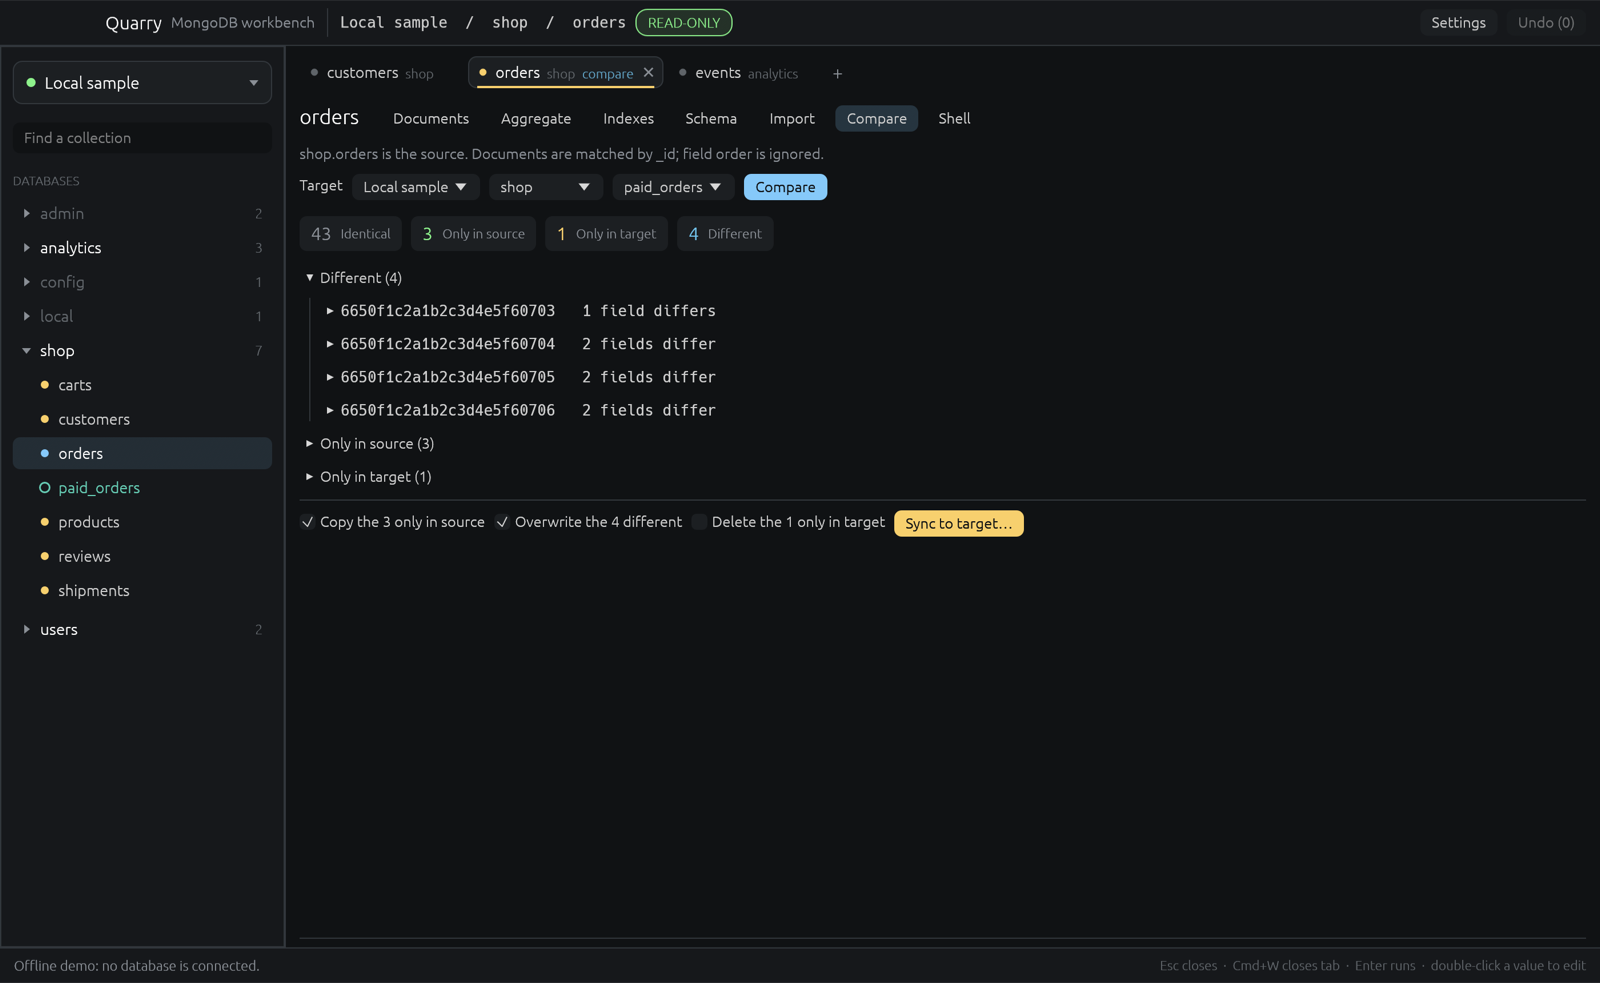
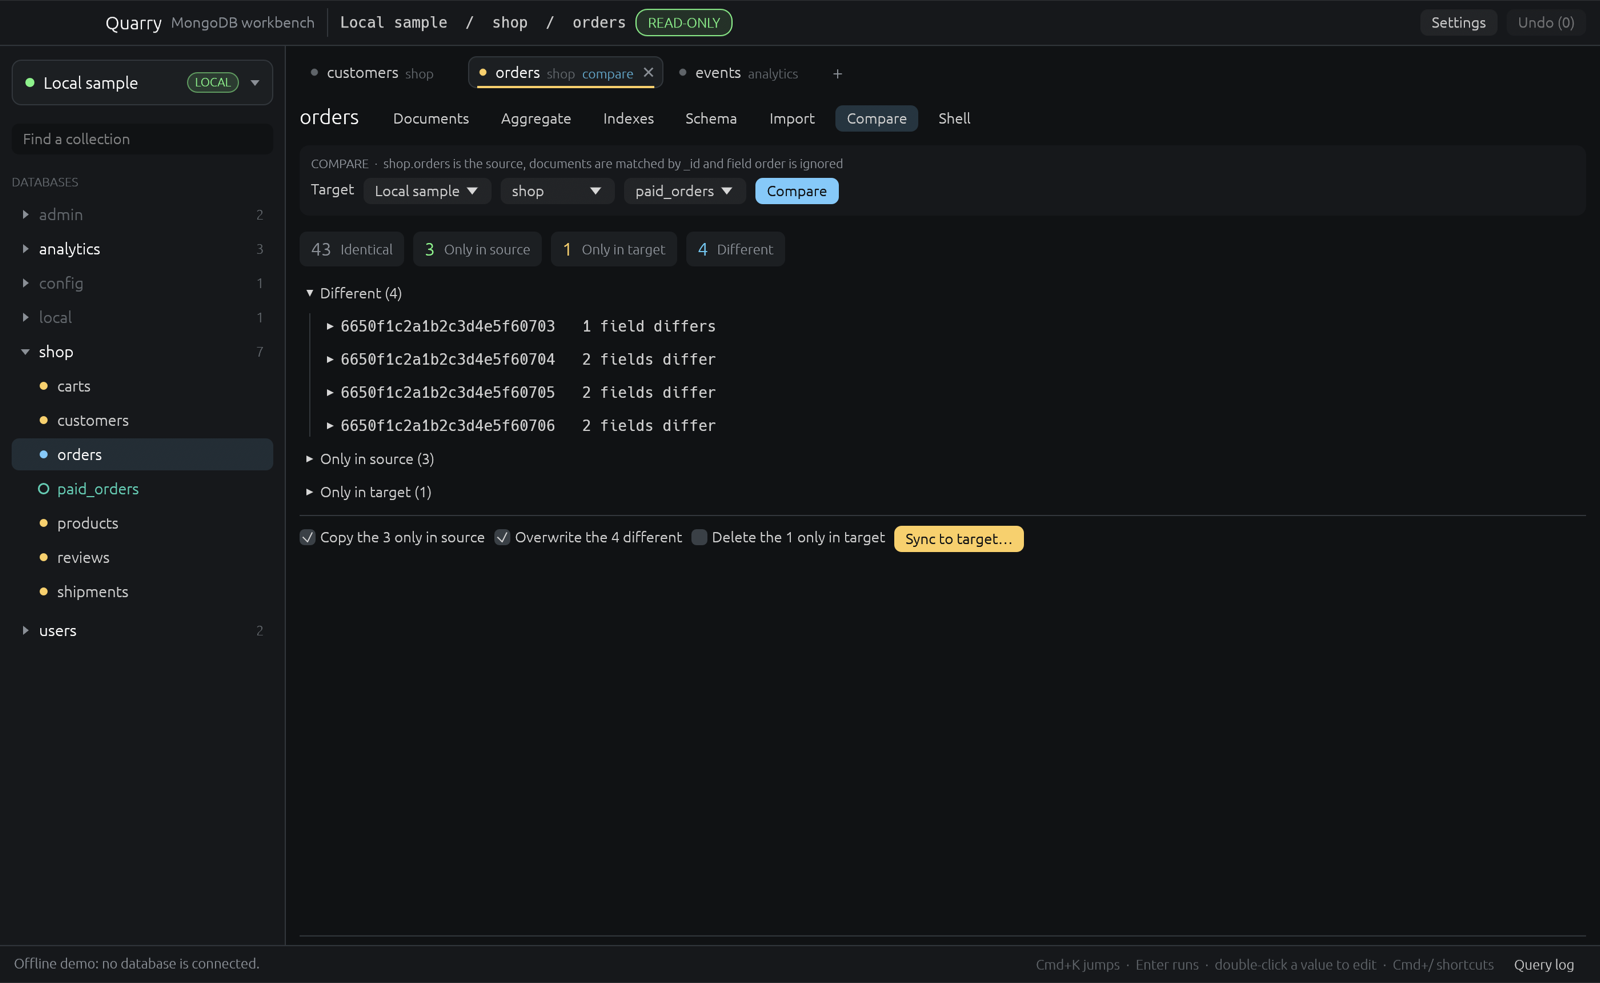
feat: tag connections and polish the connection picker and dialog (#86)
Connections can carry a tag such as Production, Staging or a custom
label, shown as a colored badge next to the connection in use and in
the picker. The picker lists each connection with its status, tag and
masked address, and the edit dialog gets wider fields and a URI that
wraps when shown. README screenshots are regenerated, with a new
aggregation pipeline view.

diff --git a/src/app.rs b/src/app.rs
@@ -136,6 +136,7 @@ fn tint(c: Color32, alpha: u8) -> Color32 {
     Color32::from_rgba_unmultiplied(c.r(), c.g(), c.b(), alpha)
 }
 const SIDEBAR_W: f32 = 250.0;
+const SIDE_ROW_H: f32 = 28.0;
 const HEADER_H: f32 = 40.0;
 const SYSTEM_DBS: [&str; 3] = ["admin", "config", "local"];
 /// Columns shown before the user picks their own; drawing every field of a wide collection is slow.
@@ -1110,6 +1111,9 @@ struct ConnMeta {
     /// Reach the server through a SOCKS5 proxy; its password lives in the Keychain.
     #[serde(default)]
     proxy: Option<db::Proxy>,
+    /// Environment label shown next to the name, such as Production.
+    #[serde(default)]
+    tag: String,
 }
 
 #[derive(PartialEq)]
@@ -1788,6 +1792,7 @@ fn stage_pipeline(stages: &[Stage], i: usize) -> db::Res<Vec<Document>> {
 struct ConnForm {
     id: Option<u64>,
     name: String,
+    tag: String,
     uri: String,
     show: bool,
     ssh_on: bool,
@@ -3759,7 +3764,7 @@ impl App {
             ("users".to_string(), colls(&["accounts", "profiles"])),
         ];
         self.conns.push(Conn {
-            meta: ConnMeta { id: 1, name: "Local sample".into(), ..Default::default() },
+            meta: ConnMeta { id: 1, name: "Local sample".into(), tag: "Local".into(), ..Default::default() },
             client: None,
             status: Status::Ready,
             writable: false,
@@ -3768,7 +3773,7 @@ impl App {
             tunnel: None,
         });
         self.conns.push(Conn {
-            meta: ConnMeta { id: 2, name: "Staging".into(), ..Default::default() },
+            meta: ConnMeta { id: 2, name: "Staging".into(), tag: "Staging".into(), ..Default::default() },
             client: None,
             status: Status::Idle,
             writable: false,
@@ -3802,6 +3807,7 @@ impl App {
             self.modal = Some(Modal::Conn(Box::new(ConnForm {
                 id: Some(2),
                 name: "Staging".into(),
+                tag: "Staging".into(),
                 uri: "mongodb://app:secret@10.0.3.12:27017/?replicaSet=rs0".into(),
                 ssh_on: true,
                 ssh: crate::ssh::SshConf { host: "bastion.example.com".into(), port: 22, user: "deploy".into(), auth: crate::ssh::SshAuth::KeyFile, key_path: "~/.ssh/id_ed25519".into(), legacy_rsa: false, known_host: Some("SHA256:3n9Yk0mF1q2hV7Qp6zXcR4tL8wE5sA0dJ2uB1nM7kPo".into()) },
@@ -4102,9 +4108,78 @@ fn stage_samples(ui: &mut egui::Ui, s: &mut Stage, i: usize, acts: &mut Vec<Stag
     });
 }
 
-fn pill(ui: &mut egui::Ui, text: &str, fg: Color32) -> egui::Response {
-    let bg = state_fill(ui, tint(fg, 30));
-    ui.add(egui::Button::new(RichText::new(text).color(fg).strong().size(12.0)).fill(bg).stroke(Stroke::new(1.0, fg)).corner_radius(10))
+/// A rounded label in `fg`, or muted with a plain border when off, as in one-of choices like connection tags.
+fn chip(ui: &mut egui::Ui, text: &str, fg: Color32, on: bool) -> egui::Response {
+    let (text_c, line, bg) = if on { (fg, fg, tint(fg, 30)) } else { (MUTED(), BORDER(), Color32::TRANSPARENT) };
+    let bg = state_fill(ui, bg);
+    ui.add(egui::Button::new(RichText::new(text).color(text_c).strong().size(12.0)).fill(bg).stroke(Stroke::new(1.0, line)).corner_radius(10))
+}
+
+/// Offered in the connection form; any other text is a custom tag.
+const TAG_PRESETS: [&str; 5] = ["Production", "Staging", "Development", "Internal", "Local"];
+
+/// Production is red so it is never mistaken for a scratch server. Only the first word counts,
+/// so custom tags like "Prod EU" keep their environment's color.
+fn tag_color(tag: &str) -> Color32 {
+    let t = tag.trim().to_ascii_lowercase();
+    match t.split(|c: char| !c.is_ascii_alphanumeric()).next().unwrap_or("") {
+        "production" | "prod" | "live" => ALERT(),
+        "staging" | "preprod" | "uat" => WARNING(),
+        "development" | "dev" | "local" | "test" => SUCCESS(),
+        "internal" => PRIMARY(),
+        _ => C_KEYWORD(),
+    }
+}
+
+fn status_color(s: &Status) -> Color32 {
+    match s {
+        Status::Ready => SUCCESS(),
+        Status::Connecting => WARNING(),
+        Status::Failed(_) => ALERT(),
+        Status::Idle => FAINT(),
+    }
+}
+
+/// One line of text cut with an ellipsis at `w`.
+fn truncated(p: &egui::Painter, text: &str, font: FontId, color: Color32, w: f32) -> std::sync::Arc<egui::Galley> {
+    let mut job = LayoutJob::simple_singleline(text.to_string(), font, color);
+    job.wrap = egui::text::TextWrapping::truncate_at_width(w.max(0.0));
+    p.layout_job(job)
+}
+
+/// Paints a tag badge at most `max_w` wide whose right edge is at `right`, and returns its left edge.
+fn paint_tag(p: &egui::Painter, right: f32, cy: f32, tag: &str, max_w: f32) -> f32 {
+    let c = tag_color(tag);
+    let g = truncated(p, &tag.to_uppercase(), FontId::proportional(10.5), c, (max_w - 14.0).min(140.0));
+    let r = egui::Rect::from_min_max(egui::pos2(right - g.size().x - 14.0, cy - 9.0), egui::pos2(right, cy + 9.0));
+    p.rect(r, 9, tint(c, 34), Stroke::new(1.0, tint(c, 150)), egui::StrokeKind::Inside);
+    p.galley(egui::pos2(r.left() + 7.0, cy - g.size().y / 2.0), g, c);
+    r.left()
+}
+
+/// `name` cut to fit before its tag badge, both centered on `cy` within `x`.
+fn paint_name_tag(p: &egui::Painter, x: egui::Rangef, cy: f32, name: &str, font: FontId, color: Color32, tag: &str) {
+    let name_right = if tag.is_empty() { x.max } else { paint_tag(p, x.max, cy, tag, x.span() * 0.4) - 8.0 };
+    let g = truncated(p, name, font, color, name_right - x.min);
+    p.galley(egui::pos2(x.min, cy - g.size().y / 2.0), g, color);
+}
+
+/// Typing "none" means no tag, the same as the None chip.
+fn clean_tag(tag: &str) -> &str {
+    let t = tag.trim();
+    if t.eq_ignore_ascii_case("none") { "" } else { t }
+}
+
+/// A saved connection in the picker: status, name and tag, then the masked address.
+fn conn_row(ui: &mut egui::Ui, c: &Conn, active: bool) -> egui::Response {
+    side_row(ui, 48.0, 4.0, active, |p, r| {
+        let (left, right, top) = (r.left(), r.right() - 2.0, r.top() + 17.0);
+        p.circle_filled(egui::pos2(left + 3.5, top), 3.5, status_color(&c.status));
+        paint_name_tag(p, egui::Rangef::new(left + 16.0, right), top, &c.meta.name, FontId::proportional(13.5), if active { BRIGHT() } else { TEXT() }, &c.meta.tag);
+        let uri = if c.masked_uri.is_empty() { "no address saved" } else { &c.masked_uri };
+        let addr = truncated(p, uri, FontId::monospace(11.0), FAINT(), right - left - 16.0);
+        p.galley(egui::pos2(left + 16.0, r.top() + 34.0 - addr.size().y / 2.0), addr, FAINT());
+    })
 }
 
 /// `c` moved by `t` away from its own lightness: toward white barely changes an already light color.
@@ -4323,8 +4398,8 @@ fn row_job(d: &Document, width: f32) -> LayoutJob {
 }
 
 /// One clickable sidebar row painted by hand, so it reads as a list rather than a form.
-fn side_row(ui: &mut egui::Ui, indent: f32, active: bool, paint: impl FnOnce(&egui::Painter, egui::Rect)) -> egui::Response {
-    let (rect, resp) = ui.allocate_exact_size(egui::vec2(ui.available_width(), 28.0), Sense::click());
+fn side_row(ui: &mut egui::Ui, height: f32, indent: f32, active: bool, paint: impl FnOnce(&egui::Painter, egui::Rect)) -> egui::Response {
+    let (rect, resp) = ui.allocate_exact_size(egui::vec2(ui.available_width(), height), Sense::click());
     let fill = if resp.is_pointer_button_down_on() {
         tint(PRIMARY(), 45)
     } else if active {
@@ -4897,13 +4972,13 @@ impl App {
                     if self.prefs.always_writable {
                         // No lock to toggle: writes are always on.
                     } else if writable {
-                        if pill(ui, "WRITES ON", ALERT()).on_hover_text("Click to lock this connection again").clicked() {
+                        if chip(ui, "WRITES ON", ALERT(), true).on_hover_text("Click to lock this connection again").clicked() {
                             if let Some(c) = self.conns.iter_mut().find(|c| c.meta.id == s.conn) {
                                 c.writable = false;
                             }
                             self.ok("Writes locked");
                         }
-                    } else if pill(ui, "READ-ONLY", SUCCESS()).on_hover_text("Click to allow edits on this connection for this session").clicked() {
+                    } else if chip(ui, "READ-ONLY", SUCCESS(), true).on_hover_text("Click to allow edits on this connection for this session").clicked() {
                         self.modal = Some(Modal::Unlock(s.conn, None));
                     }
                 }
@@ -5099,25 +5174,17 @@ impl App {
 
     fn conn_picker(&mut self, ui: &mut egui::Ui) {
         let cur = self.active.and_then(|id| self.conn(id));
-        let (name, dot) = match cur {
-            Some(c) => (
-                c.meta.name.clone(),
-                match c.status {
-                    Status::Ready => SUCCESS(),
-                    Status::Connecting => WARNING(),
-                    Status::Failed(_) => ALERT(),
-                    Status::Idle => FAINT(),
-                },
-            ),
-            None => ("Add a connection".to_string(), FAINT()),
+        let (name, tag, dot) = match cur {
+            Some(c) => (c.meta.name.clone(), c.meta.tag.clone(), status_color(&c.status)),
+            None => ("Add a connection".to_string(), String::new(), FAINT()),
         };
-        let (rect, resp) = ui.allocate_exact_size(egui::vec2(ui.available_width(), 38.0), Sense::click());
+        let (rect, resp) = ui.allocate_exact_size(egui::vec2(ui.available_width(), 40.0), Sense::click());
         let p = ui.painter();
         let fill = if resp.is_pointer_button_down_on() { shade(HOVER(), 0.08) } else if resp.hovered() { HOVER() } else { RAISED() };
         p.rect(rect, 8, fill, Stroke::new(1.0, BORDER()), egui::StrokeKind::Inside);
         p.circle_filled(egui::pos2(rect.left() + 16.0, rect.center().y), 4.0, dot);
-        p.text(egui::pos2(rect.left() + 28.0, rect.center().y), egui::Align2::LEFT_CENTER, &name, FontId::proportional(14.5), BRIGHT());
         chevron(p, egui::pos2(rect.right() - 16.0, rect.center().y), true, MUTED());
+        paint_name_tag(p, egui::Rangef::new(rect.left() + 28.0, rect.right() - 30.0), rect.center().y, &name, FontId::proportional(14.5), BRIGHT(), &tag);
         let resp = resp.on_hover_cursor(egui::CursorIcon::PointingHand);
         if cur.is_none() && resp.clicked() {
             return self.new_conn_modal();
@@ -5127,15 +5194,24 @@ impl App {
         let mut remove = None;
         let mut edit = None;
         let mut refresh = None;
-        egui::Popup::menu(&resp).width(rect.width()).show(|ui| {
+        egui::Popup::menu(&resp).width(rect.width().max(320.0)).show(|ui| {
+            ui.spacing_mut().item_spacing.y = 2.0;
+            ui.spacing_mut().button_padding = egui::vec2(10.0, 6.0);
+            ui.add_space(4.0);
+            ui.horizontal(|ui| {
+                ui.add_space(10.0);
+                ui.label(RichText::new("CONNECTIONS").size(11.0).strong().color(FAINT()));
+            });
+            ui.add_space(2.0);
             for c in &self.conns {
-                let label = format!("{}   {}", c.meta.name, c.masked_uri);
-                if ui.selectable_label(Some(c.meta.id) == self.active, RichText::new(label).color(TEXT())).clicked() {
+                if conn_row(ui, c, Some(c.meta.id) == self.active).clicked() {
                     pick = Some(c.meta.id);
                 }
             }
+            ui.add_space(4.0);
             ui.separator();
-            if ui.button("+ New connection…").clicked() {
+            ui.add_space(2.0);
+            if ui.button("+  New connection…").clicked() {
                 new = true;
             }
             if let Some(c) = cur {
@@ -5145,10 +5221,14 @@ impl App {
                 if ui.button("Refresh databases").on_hover_text("Reconnect and reload the list of databases and collections").clicked() {
                     refresh = Some(c.meta.id);
                 }
+                ui.add_space(2.0);
+                ui.separator();
+                ui.add_space(2.0);
                 if ui.button(RichText::new(format!("Remove \"{}\"…", c.meta.name)).color(ALERT())).clicked() {
                     remove = Some((c.meta.id, c.meta.name.clone()));
                 }
             }
+            ui.add_space(2.0);
         });
         if let Some(id) = edit {
             if let Some(meta) = self.conn(id).map(|c| c.meta.clone()) {
@@ -5169,6 +5249,7 @@ impl App {
                 self.modal = Some(Modal::Conn(Box::new(ConnForm {
                     id: Some(id),
                     name: meta.name.clone(),
+                    tag: meta.tag.clone(),
                     uri,
                     ssh_on: meta.ssh.is_some(),
                     ssh: meta.ssh.clone().unwrap_or_default(),
@@ -5268,7 +5349,7 @@ impl App {
                 let is_open = !filter.is_empty() || self.open_dbs.contains(&(id, db_name.clone()));
                 let dim = SYSTEM_DBS.contains(&db_name.as_str());
                 let count = colls.as_ref().map(|v| v.len().to_string()).unwrap_or_else(|| "…".into());
-                let r = side_row(ui, 0.0, false, |p, r| {
+                let r = side_row(ui, SIDE_ROW_H, 0.0, false, |p, r| {
                     chevron(p, egui::pos2(r.left() + 4.0, r.center().y), is_open, MUTED());
                     p.text(egui::pos2(r.left() + 16.0, r.center().y), egui::Align2::LEFT_CENTER, db_name, FontId::proportional(14.0), if dim { FAINT() } else { BRIGHT() });
                     p.text(egui::pos2(r.right(), r.center().y), egui::Align2::RIGHT_CENTER, &count, FontId::proportional(12.0), FAINT());
@@ -5314,7 +5395,7 @@ impl App {
                         let sel = Sel { conn: id, db: db_name.clone(), coll: coll.clone() };
                         let active = cur_sel.as_ref() == Some(&sel);
                         let is_view = self.views.contains(&(id, db_name.clone(), coll.clone()));
-                        let r = side_row(ui, 16.0, active, |p, r| {
+                        let r = side_row(ui, SIDE_ROW_H, 16.0, active, |p, r| {
                             let c = egui::pos2(r.left() + 4.0, r.center().y);
                             if is_view {
                                 // Views get a hollow marker so they read as derived data.
@@ -7438,7 +7519,7 @@ impl App {
                 ui.horizontal_wrapped(|ui| {
                     for (i, l) in labels.iter().enumerate() {
                         let fg = if t.agg_stage == Some(i) { PRIMARY() } else { MUTED() };
-                        if pill(ui, &format!("{} {l}", i + 1), fg).on_hover_text("Preview the output after this stage").clicked() {
+                        if chip(ui, &format!("{} {l}", i + 1), fg, true).on_hover_text("Preview the output after this stage").clicked() {
                             stage = Some(i);
                         }
                     }
@@ -8143,10 +8224,10 @@ impl App {
                         let recent = s.since.is_some_and(|t| now - t < 7 * 24 * 3600 * 1000);
                         ui.label(RichText::new(format!("{} ops{}", group(&s.ops.to_string()), if s.ops == 0 && recent { ", since restart" } else { "" })).monospace().color(MUTED()));
                         if name != "_id_" && db::is_unused(s.ops, s.since, now) {
-                            pill(ui, "unused", WARNING());
+                            chip(ui, "unused", WARNING(), true);
                         }
                         if s.hidden {
-                            pill(ui, "hidden", PRIMARY());
+                            chip(ui, "hidden", PRIMARY(), true);
                         }
                     });
                     ui.label(RichText::new(stat.and_then(|s| s.size).map(human_bytes).unwrap_or_default()).monospace().color(MUTED()));
@@ -8320,21 +8401,44 @@ impl App {
                 Modal::Conn(f) => {
                     let mut save = false;
                     let mut test = false;
-                    ui.set_width(560.0);
+                    ui.set_width(600.0);
                     dialog_title(ui, if f.id.is_some() { "Edit connection" } else { "New connection" });
                     ui.label(RichText::new("Addresses, passwords and passphrases are stored in the macOS Keychain. The connection opens read-only.").size(12.0).color(MUTED()));
                     ui.add_space(8.0);
                     egui::ScrollArea::vertical().max_height(ctx.content_rect().height() - 220.0).show(ui, |ui| {
                         settings_section(ui, "SERVER", |ui| {
-                            egui::Grid::new("cf").num_columns(2).spacing([10.0, 8.0]).show(ui, |ui| {
+                            // Grid cells do not know their width on the first frame, so size fields from the section.
+                            let field_w = ui.available_width() - 64.0;
+                            egui::Grid::new("cf").num_columns(2).spacing([14.0, 12.0]).show(ui, |ui| {
                                 ui.label("Name");
-                                ui.add(egui::TextEdit::singleline(&mut f.name).hint_text("Production cluster").desired_width(400.0));
+                                ui.add(egui::TextEdit::singleline(&mut f.name).hint_text("Production cluster").desired_width(field_w).margin(egui::Margin::symmetric(8, 5)));
+                                ui.end_row();
+                                ui.label("Tag");
+                                ui.vertical(|ui| {
+                                    ui.horizontal_wrapped(|ui| {
+                                        ui.spacing_mut().item_spacing.x = 6.0;
+                                        for t in std::iter::once("").chain(TAG_PRESETS) {
+                                            let c = if t.is_empty() { MUTED() } else { tag_color(t) };
+                                            if chip(ui, if t.is_empty() { "None" } else { t }, c, clean_tag(&f.tag).eq_ignore_ascii_case(t)).clicked() {
+                                                f.tag = t.to_string();
+                                            }
+                                        }
+                                    });
+                                    ui.add_space(4.0);
+                                    ui.add(egui::TextEdit::singleline(&mut f.tag).hint_text("or type a custom tag").char_limit(24).desired_width(220.0).margin(egui::Margin::symmetric(8, 5)));
+                                });
                                 ui.end_row();
                                 ui.label("URI");
-                                ui.add(egui::TextEdit::singleline(&mut f.uri).password(!f.show).font(FontId::monospace(13.0)).desired_width(400.0));
-                                ui.end_row();
-                                ui.label("");
-                                ui.checkbox(&mut f.show, "Show address");
+                                ui.vertical(|ui| {
+                                    let edit = if f.show { egui::TextEdit::multiline(&mut f.uri).desired_rows(3).return_key(None) } else { egui::TextEdit::singleline(&mut f.uri).password(true) };
+                                    ui.add(edit.font(FontId::monospace(13.0)).hint_text("mongodb+srv://user:password@host/").desired_width(field_w).margin(egui::Margin::symmetric(8, 6)));
+                                    // Wrapping is only visual; a pasted newline would break the URI.
+                                    if f.show {
+                                        f.uri.retain(|c| c != '\n' && c != '\r');
+                                    }
+                                    ui.add_space(2.0);
+                                    ui.checkbox(&mut f.show, "Show address");
+                                });
                                 ui.end_row();
                             });
                         });
@@ -8471,6 +8575,7 @@ impl App {
                                 let meta = ConnMeta {
                                     id,
                                     name: f.name.trim().into(),
+                                    tag: clean_tag(&f.tag).into(),
                                     ssh: f.ssh_on.then(|| crate::ssh::SshConf { host: f.ssh.host.trim().into(), user: f.ssh.user.trim().into(), ..f.ssh.clone() }),
                                     proxy: (f.proxy_on && !f.ssh_on).then(|| db::Proxy { host: f.proxy.host.trim().into(), password: None, ..f.proxy.clone() }),
                                 };

diff --git a/README.md b/README.md
@@ -20,12 +20,13 @@
 - **Shell**: JavaScript run by [Bun](https://bun.sh) with the official MongoDB driver, npm packages, autocomplete, and results shown as a table.
 - **Data relations**: shows a preview next to referenced ids and jumps to the referenced document. Relations can be found automatically.
 - **Compare and sync** two collections, **dump and restore** with the MongoDB Database Tools (Quarry installs and updates them if they are missing), and **users and roles**.
-- **SSH tunnels** (password, key file or agent) and **SOCKS5 proxies**. Secrets are kept in the system keychain (macOS Keychain, Windows Credential Manager, or the Secret Service on Linux). Quarry reconnects to the last used connection at launch.
+- **SSH tunnels** (password, key file or agent) and **SOCKS5 proxies**. Secrets are kept in the system keychain (macOS Keychain, Windows Credential Manager, or the Secret Service on Linux). Quarry reconnects to the last used connection at launch. Tag connections as Production, Staging or your own label so the one in use is always clear.
 
 | | |
 |---|---|
 | ![Editing a document](docs/edit.png) | ![Shell](docs/shell.png) |
 | ![Schema](docs/schema.png) | ![Compare and sync](docs/compare.png) |
+| ![Aggregation pipeline with a preview after each stage](docs/aggregate.png) | ![Connection with a tag and an SSH tunnel](docs/connection.png) |
 
 ## Install
 
